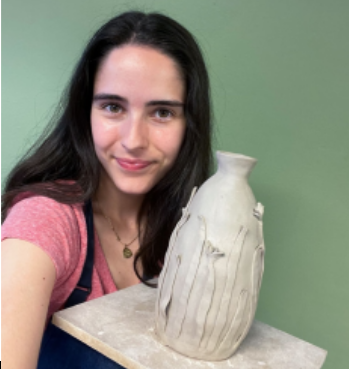
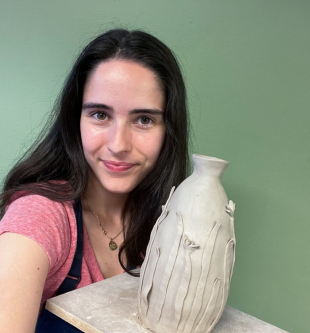
remove christmas and start on designers

diff --git a/src/styles/designerSection.css b/src/styles/designerSection.css
@@ -1,44 +1,71 @@
-.designerSection {
-  margin-bottom: 3rem;
-  display: flex;
-  flex-direction: column;
-  justify-content: space-between;
-  width: 100%;
-  /* background-color: rgb(255, 255, 255); */
-  padding: 1rem;
-}
-
-.designerSection p {
-  padding-bottom: 2rem;
-  line-height: 2rem;
-}
-
 .imageSection {
-  height: auto;
-  display: flex;
-  width: 100%;
-  gap: 1rem; 
-  justify-content: space-between;
-  /* margin-bottom: 1.5rem */
-  /* border: 2px solid red; */
+  
+  display: grid;
+  grid-template-columns: 1fr 1fr 1fr;
+  gap: 0.5rem;
+  max-width: 100%;
+  margin-top: auto;
 }
 
 .imageSection img {
-  /* width: clamp(5rem, 29vw, 30rem); */
   aspect-ratio: 1/1;
   width: 100%;
-  object-fit: cover; 
-  /* flex: 1 1 1; */
+  height: 100%;
+  object-fit: cover;
+  border-radius: 6px;
+
 }
 
+.designerSection h2 {
+  padding-top: 1rem;
+}
+
+.designerSection p {
+  line-height: 1.6;
+  margin-bottom: 1.5rem;
+}
+
+.soMeContainer{
+  margin-top: 3rem
+}
+.soMeLink{
+  /* line-height: 0; */
+  color: gray;
+  margin-block: 0;
+  /* margin: 0px 0px 60px; */
+}
+
+
+/* .............. iPads (tablets) - Landscape ............ */
 @media (min-width: 768px) {
   .designerSection {
-    width: 100%
+    display: flex;
+    overflow: hidden;
+    height: 100%;
+    flex-direction: column;
   }
 
-  
+  .imageSection {
+    gap: 1rem;
+  }
 
-  .imageSection img {
-    width: clamp(3rem, 100%, 25rem);
+  .contentContainer {
+    gap: 1rem;
+    display: flex;
+    flex-direction: column;
+    flex: 1;
+    /* border: 2px solid purple; */
+    margin: 4rem 1rem;
+  }
+
+
+}
+
+/* ............ Desktops ................*/
+@media (min-width: 1025px) {
+ .designerSection p {
+    line-height: 1.6;
+    margin-bottom: 0rem;
+    margin-inline: 2rem
   }
 }

diff --git a/src/components/designerSection.jsx b/src/components/designerSection.jsx
@@ -1,22 +1,29 @@
 import '../styles/designerSection.css'
 
 
-function DesignerCard({ title, text, images }) {
+function DesignerCard({ title, text, images, soMe1, soMe2 }) {
   return <>
-    <section className="designerSection">
-      <div className="textDivDesigners">
-      <h2>{title}</h2>
-      <p>{text}</p></div>
-      <div className="imageSection">
-        {images.map(({src, alt}) =>
-          <img
-            src={"/images/designersImg/" + src}
-            alt={alt}></img>
-        )}
-      </div>
+    <section className="designerSection" >
+      <div className='contentContainer'>
+        <div className="textDivDesigners">
+          <h2>{title}</h2>
+          <p>{text}</p>
+          <div className='soMeContainer'>
+            <p className='soMeLink'>{soMe1}</p>
+            <p className='soMeLink'> {soMe2}</p>
+
+          </div>
+
+        </div>
+
+        <div className="imageSection">
+          {images.map(({ src, alt }) =>
+            <img
+              src={"/images/designersImg/" + src}
+              alt={alt}></img>
+          )}
+        </div></div>
     </section>
-
-
 
   </>
 

diff --git a/src/styles/designers.css b/src/styles/designers.css
@@ -1,39 +1,36 @@
 .designersMain {
-  /* padding: 1rem; */
   display: flex;
   flex-direction: column;
-  justify-content: center; 
-  padding-inline:1rem;
-  /* background-color: beige; */
+  justify-content: center;
+  padding-inline: 1rem;
+
+  margin-bottom: 3rem;
 }
- 
-.designersMain h1{
+
+.designersMain h1 {
   padding-block: 1rem;
   text-align: left;
 }
 
-
-
-.designersContainer{
-  margin-inline: auto;
+.designersContainer {
   display: grid;
   grid-template-columns: 1fr;
-  grid-template-rows: 1fr 1fr 1fr 1fr 1fr 1fr 1fr 1fr 1fr ;
-    gap: 3rem;
+  gap: 2rem;
+
 }
 
 
 @media (min-width: 768px) {
-  .designersMain {
-    /* padding-top:10rem; */
-    padding-inline: 4rem
-    /* grid-template-rows: 1fr 1fr; */
+  .designersContainer {
+    grid-template-columns: repeat(2, 1fr);
   }
 
-.designersContainer{
-  margin-inline: auto;
-  display: grid;
-  grid-template-columns: 1fr 1fr;
-  /* grid-template-rows: 1fr 1fr 1fr 1fr 1fr 1fr 1fr ; */
 }
+
+/* ............ Desktops ................*/
+@media (min-width: 1025px) {
+  .designersMain {
+    max-width:90rem;
+    margin-inline: auto;
+  }
 }

diff --git a/src/components/heroSection.jsx b/src/components/heroSection.jsx
@@ -1,6 +1,7 @@
 import shopPhotoMob from '../assets/shop/shopgift.jpeg'
 import '../styles/hero.css'
 import shopPhoto from '../assets/shop/shopgift.jpeg'
+import heroPhoto from '../../public/images/hero.jpg'
 
 
 function HeroSection() {
@@ -8,13 +9,13 @@ function HeroSection() {
     <section className='heroImgContainer'>
       <img className="heroImgMob" src={shopPhotoMob} ></img>
 
-      <img className="heroImgDesktop" src={shopPhoto} ></img>
+      <img className="heroImgDesktop" src={heroPhoto} ></img>
       {/* <a className='heroBtn' href="/designers"> Møt oss </a> */}
       {/* <div className="heroText">
        <h1 className='light'> Ha en fin desember! </h1>
        </div> */}
        <div className="heroTextDiv"> 
-        <h1>Ha en god desember!</h1>
+        {/* <h1>Mandag-Lørdag: 10:00 - 18:00</h1> */}
 
       {/* <p className='light'>Mandag-Lørdag: 10:00 - 18:00</p> */}
       </div>

diff --git a/index.html b/index.html
@@ -3,12 +3,18 @@
   <head>
     <meta charset="UTF-8" />
     <meta name="viewport" content="width=device-width, initial-scale=1.0" />
+    <!-- description, author, -->
   
     <meta property="og:title" content="AtmosKunst" />
     <meta property="og:url" content="https://www.atmoskunst.com" /> 
     <meta property="og:type" content="webpage" />
     <meta property="og:image" content="https://res.cloudinary.com/image.jpg" />
+    <!-- description -->
+
+    <!-- analyze website trafic without cookies -->
+    <script defer src="https://analytics.furuknappen.no/script.js" data-website-id="3e9958d1-a663-441e-aba5-b22bfe22c247"></script>
     
+    <!-- Favicons -->
     <link rel="shortcut icon" href="./public/favicon-16x16.png" type="image/png">
 		<link rel="shortcut icon" href="./public/favicon.ico" type="image/x-icon">
 		<link rel="shortcut icon" href="./public/favicon-32x32.png" type="image/png">

diff --git a/src/styles/global.css b/src/styles/global.css
@@ -64,7 +64,7 @@ h2{
   font-size: 1.5rem;
   font-family: var(--h2);
   color: var(--fontColorDark);
-  padding-bottom: 1rem;
+  /* padding-bottom: 1rem; */
   margin: 0 0 .5em 0;
   padding-top: 0.5px;
   font-weight: 500;
@@ -76,7 +76,7 @@ p {
   font-family: var(--textFont);
   font-size: 1.13rem;
   /* padding-bottom: 1rem; */
-  margin: 0px 0px 18px;
+  /* margin: 0px 0px 18px; */
   line-height: 1.55rem;
   text-align: center;
   line-height: 1.7;

diff --git a/src/pages/Designers.jsx b/src/pages/Designers.jsx
@@ -11,7 +11,7 @@ function Designers() {
       <h1> Dette er oss</h1>
 
       <div className='designersContainer'>
-        {designers.map(({ title, text, images }, index) => <DesignerCard key={index} title={title} text={text} images={images} />)}
+        {designers.map(({ title, text, images, soMe1, soMe2 }, index) => <DesignerCard key={index} title={title} text={text} images={images} soMe1={soMe1} soMe2={soMe2}/>)}
       </div>
 
     </main> </>

diff --git a/src/pages/Home.jsx b/src/pages/Home.jsx
@@ -31,7 +31,7 @@ function Home() {
         <p className="text dark "> Atmos kunst er en ny butikk som har åpnet i Trondheim! Butikken drives av håndverkere og kunstnere som har gått sammen for å selge produktene sine sammen på ett sted. Her vinner du alt du vil trenge av julegaver!</p>
       </section>
 
-      <ChristmasOpeningHours />
+      {/* <ChristmasOpeningHours /> */}
       <LocationSection />
 
       <PictureDisplay />

diff --git a/src/styles/header.css b/src/styles/header.css
@@ -5,7 +5,7 @@
   height: 4.5rem;
   display:flex;
   align-items: center;
-  justify-content: space-between;
+  justify-content: center; /*bytt til space between*/
   border-bottom: 1px solid rgb(197, 195, 195);
  
 
@@ -16,7 +16,7 @@
   height: 55px;
   stroke: var(--mainColor);
   color: var(--mainColor);
-  margin-left: 5rem;
+  /* margin-left: 5rem; */
 }
 
 .headerNav{

diff --git a/src/components/header.jsx b/src/components/header.jsx
@@ -11,13 +11,13 @@ function Header() {
 
 
     
-<nav className="headerNav">
+{/* <nav className="headerNav"> */}
  {/* <Link to="/designers">Møt oss</Link> */}
  {/* <Link to="/about-us">Om Atmos Kunst</Link> */}
   {/* <Link to="/contact">Kontakt</Link> */}
-</nav>
-
-  </header>
+{/* </nav> */}
+ </header>
+ 
 </>
 }
 

diff --git a/src/styles/hero.css b/src/styles/hero.css
@@ -97,7 +97,7 @@
 
 
   .heroImgContainer {
-    height: 450px;
+    height: 550px;
   }
 
   /* .heroImgMob {
